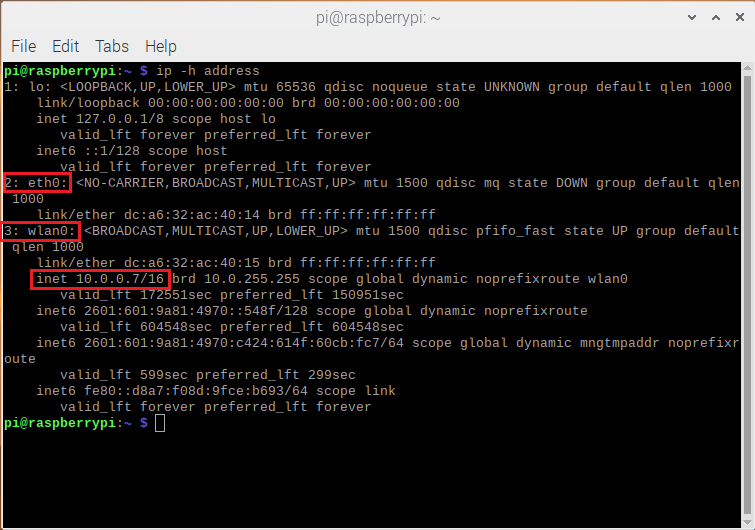
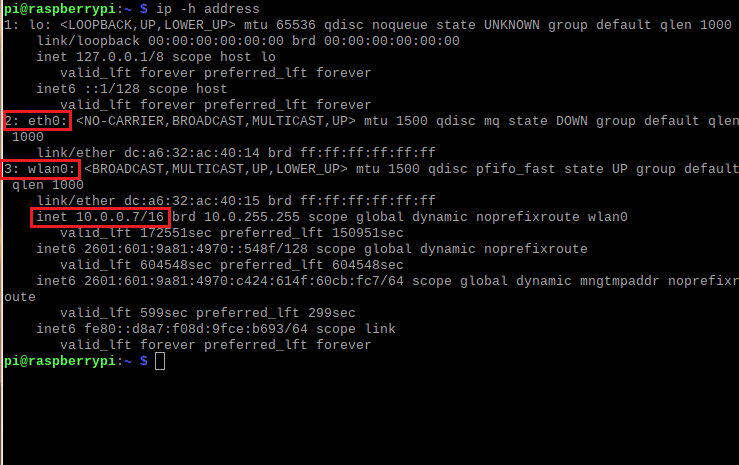
Getting Started

diff --git a/README.md b/README.md
@@ -30,7 +30,20 @@ After getting your Raspberry setup based on the instructions you received with i
     ip -h address
     ```
     You'll see something like this:
+    &nbsp;
     ![Screenshot](/Doc/Images/ip-address.png?raw=true)
+    &nbsp;
+    You're looking for an **inet** address.  In my case here, my Raspberry is connected to WiFi and so the connection information will be located under the **wlan0** network interface.  I've highlighted the interface and the internet address here.
+
+    When your Raspberry is connected to a wired network, you'll see the IP address beneath the **eth0** network interface which I've also highlighted but there is no IP address listed because my Raspberry is not connected to a wired network.
+
+    Make a note of your Raspberry's IP address, you'll need it to configure a connection in Visual Studio.
+
+4. **Advanced:** Your Raspeberry's IP address may change from time-to-time, depending on your network settings.  I've configured my home router to assign reserve an IP address for my Raspberry so it won't change.  You may need to [configure a static IP address](https://www.raspberrypi.org/documentation/configuration/tcpip/) on the Raspberry itself.
+
+That's all the configuration required on the Raspberry.
+
+
 
 ### Disclosures
 
